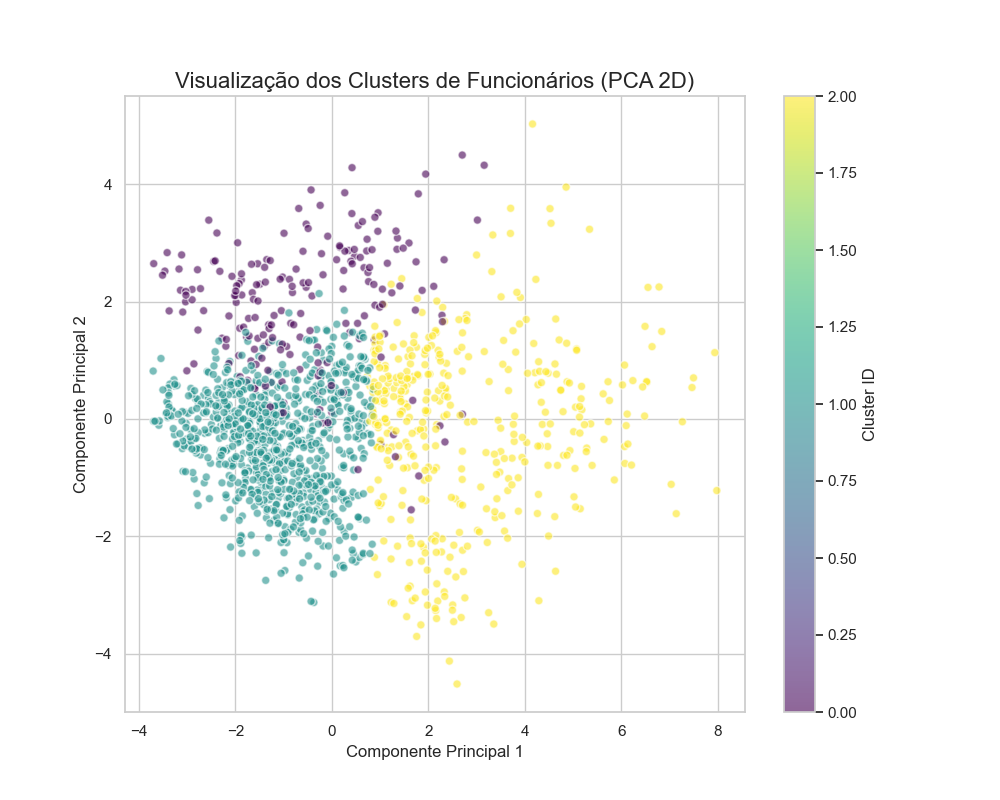
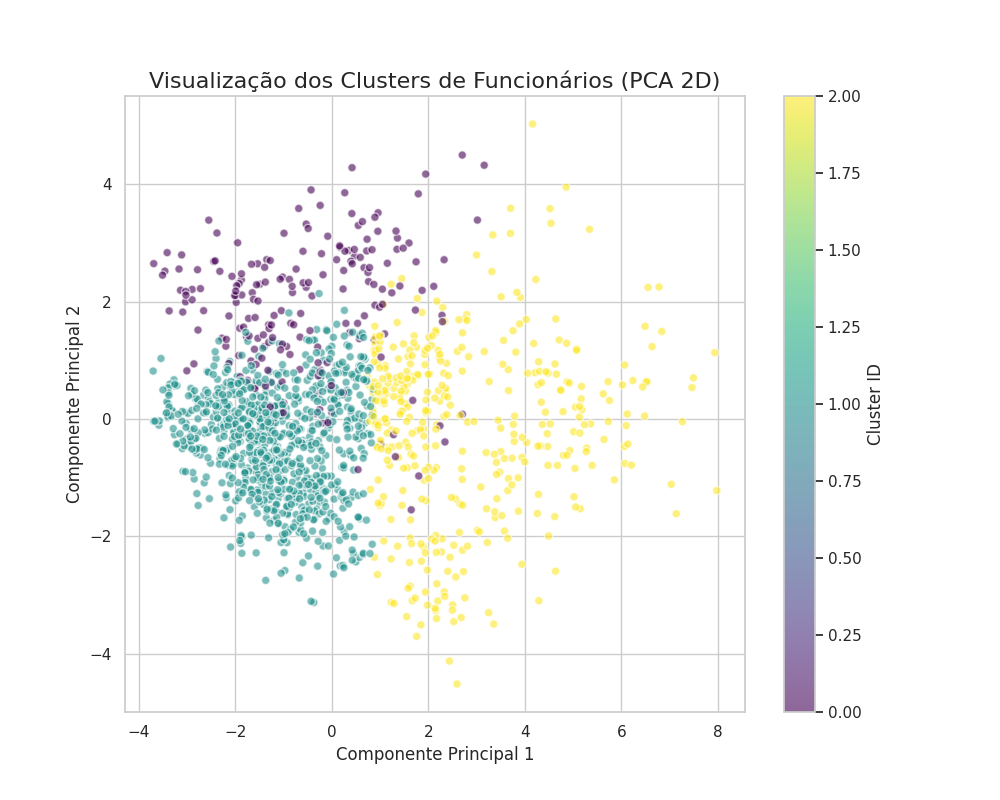
influencia de variaveis

diff --git a/Unidade 3 CD/analise_completa.py b/Unidade 3 CD/analise_completa.py
@@ -3,8 +3,10 @@ import numpy as np
 import matplotlib.pyplot as plt
 import seaborn as sns
 from sklearn.cluster import KMeans
-from sklearn.preprocessing import StandardScaler
+from sklearn.preprocessing import StandardScaler, LabelEncoder
 from sklearn.decomposition import PCA
+from sklearn.metrics import silhouette_score
+from sklearn.ensemble import RandomForestClassifier
 
 # Configuração de estilo
 sns.set(style="whitegrid")
@@ -25,6 +27,7 @@ df_numeric = df.select_dtypes(include=[np.number])
 df_numeric = df_numeric.drop(['EmployeeCount', 'StandardHours'], axis=1, errors='ignore')
 
 print("Dados pré-processados.")
+
 
 # ==========================================
 # ANÁLISE DE CORRELAÇÃO
@@ -85,3 +88,91 @@ cluster_summary = df_clustered.groupby('Cluster')[['Age', 'MonthlyIncome', 'Tota
 print(cluster_summary)
 
 print("\nConcluído. Verifique os arquivos PNG gerados.")
+
+# ==========================================
+# NÚMERO DE GRUPOS
+# ==========================================
+
+print("Calculando Método do Cotovelo e Silhouette Score...")
+
+inertia = []
+silhouette_scores = []
+K_range = range(2, 10) # Testando de 2 a 9 clusters
+
+for k in K_range:
+    kmeans_test = KMeans(n_clusters=k, random_state=42, n_init=10)
+    kmeans_test.fit(X_scaled)
+    inertia.append(kmeans_test.inertia_)
+    silhouette_scores.append(silhouette_score(X_scaled, kmeans_test.labels_))
+
+# Plotar os Gráficos de Decisão
+fig, ax1 = plt.subplots(figsize=(12, 6))
+
+# Gráfico do Cotovelo (Inertia)
+ax1.set_xlabel('Número de Clusters (k)')
+ax1.set_ylabel('Inertia (Soma dos erros ao quadrado)', color='tab:blue')
+ax1.plot(K_range, inertia, 'o-', color='tab:blue', label='Inertia (Cotovelo)')
+ax1.tick_params(axis='y', labelcolor='tab:blue')
+
+# Gráfico do Silhouette (Eixo secundário)
+ax2 = ax1.twinx() 
+ax2.set_ylabel('Silhouette Score', color='tab:orange')
+ax2.plot(K_range, silhouette_scores, 's--', color='tab:orange', label='Silhouette Score')
+ax2.tick_params(axis='y', labelcolor='tab:orange')
+
+plt.title('Definição do K Ideal: Cotovelo vs Silhouette')
+plt.grid(True)
+plt.savefig('analise_k_ideal.png')
+plt.close()
+print("Gráfico salvo: analise_k_ideal.png")
+
+
+# ==========================================
+# 2. SELEÇÃO E PADRONIZAÇÃO DE DADOS
+# ==========================================
+# Vamos focar nas variáveis que mais definem perfil profissional
+cols_cluster = ['Age', 'MonthlyIncome', 'TotalWorkingYears', 
+                'YearsAtCompany', 'YearsInCurrentRole', 
+                'DistanceFromHome', 'NumCompaniesWorked']
+
+# Filtrar apenas essas colunas para o cluster (remove ruído)
+df_cluster_data = df[cols_cluster].dropna()
+
+# Padronizar (StandardScaler é obrigatório para K-Means)
+scaler = StandardScaler()
+X_scaled = scaler.fit_transform(df_cluster_data)
+
+# ==========================================
+# 4. APLICAÇÃO DO CLUSTER FINAL (Exemplo com K=3)
+# ==========================================
+# NOTA: Após olhar o gráfico acima, altere k_final se necessário.
+k_final = 3 
+print(f"Executando K-Means final com K={k_final}...")
+
+kmeans_final = KMeans(n_clusters=k_final, random_state=42, n_init=10)
+clusters = kmeans_final.fit_predict(X_scaled)
+
+# Adicionar cluster ao dataframe original (usando o índice para alinhar)
+df.loc[df_cluster_data.index, 'Cluster'] = clusters
+
+# ==========================================
+# 5. ANÁLISE DOS AGRUPAMENTOS E VARIÁVEIS
+# ==========================================
+
+# Boxplots para entender a influência de cada variável
+plt.figure(figsize=(18, 10))
+for i, col in enumerate(cols_cluster):
+    plt.subplot(2, 4, i+1)
+    sns.boxplot(x='Cluster', y=col, data=df, palette='viridis')
+    plt.title(col)
+plt.tight_layout()
+plt.savefig('influencia_variaveis.png')
+plt.close()
+print("Gráfico salvo: influencia_variaveis.png")
+
+# Tabela Resumo dos Perfis (Média das variáveis por cluster)
+summary = df.groupby('Cluster')[cols_cluster + ['Attrition_Numeric']].mean()
+# Adiciona contagem de pessoas por cluster
+summary['Contagem'] = df['Cluster'].value_counts()
+print("\n=== PERFIL MÉDIO DOS CLUSTERS ===")
+print(summary.T) # Transposto para facilitar leitura
